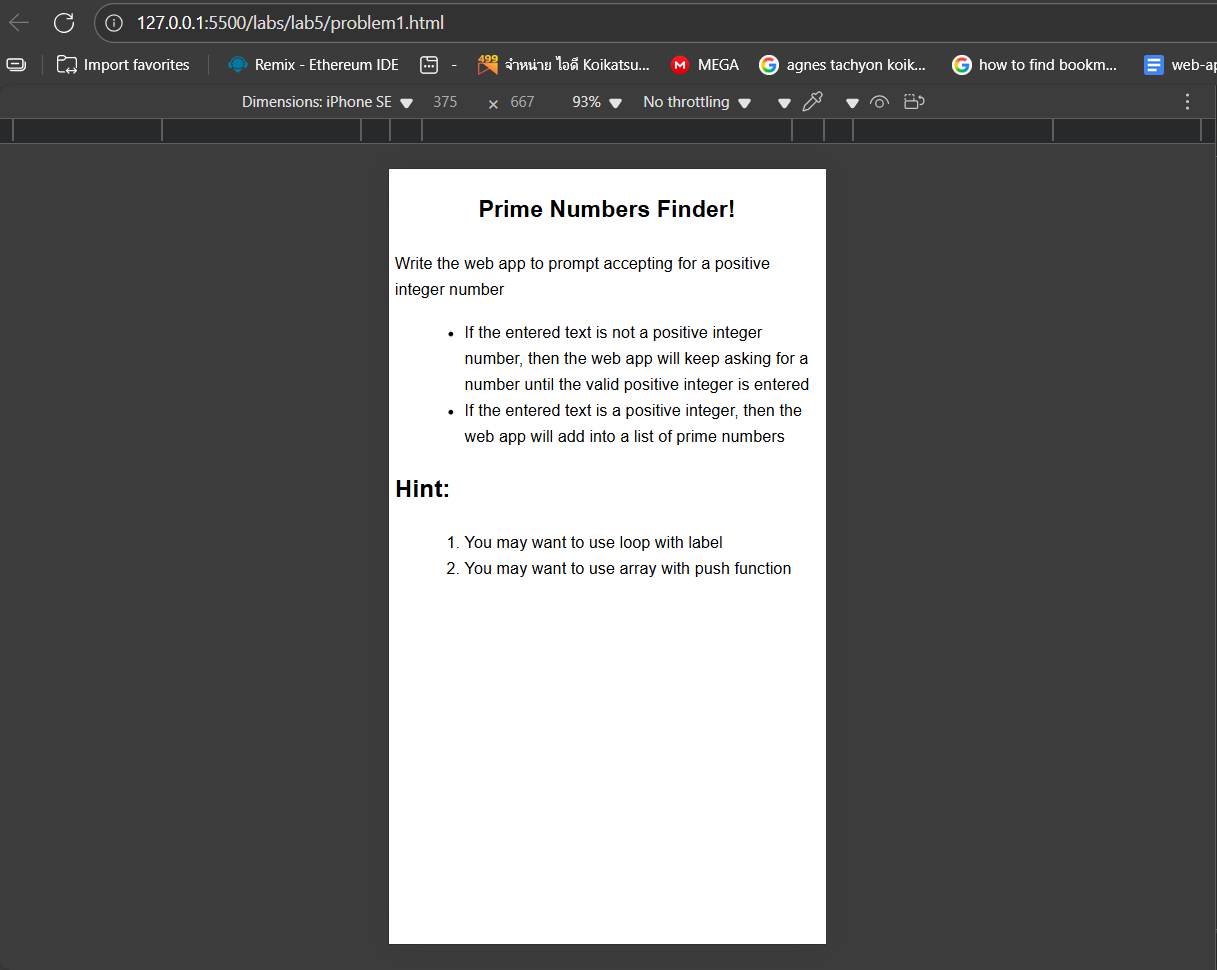
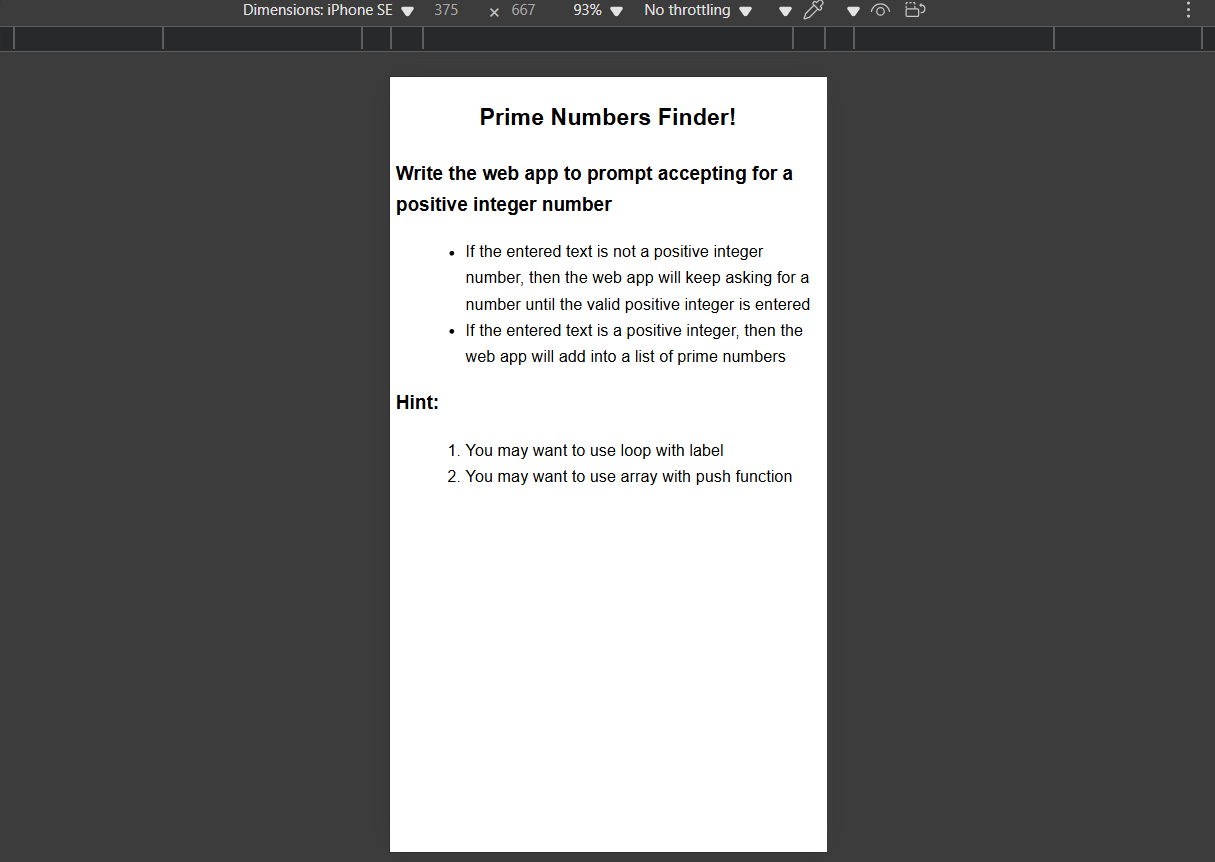
add

diff --git a/lab5/problem2.html b/lab5/problem2.html
@@ -1,0 +1,26 @@
+<!DOCTYPE html>
+<html lang="en">
+<head>
+  <meta charset="UTF-8">
+  <meta name="viewport" content="width=device-width, initial-scale=1.0">
+  <title>Problem 2 - Statistics Calculator</title>
+  <link rel="stylesheet" href="lib/style.css">
+  <script src="lib/problem2.js" defer></script>
+</head>
+<body style="display:none;">
+  <div class="container">
+    <h1>Statistics Calculator!</h1>
+    <h2>Write the web app to prompt accepting for positive integers until the user enters a negative integer</h2>
+    <ul>
+      <li>If the entered text is not a positive integer number, then the web app will keep asking for a number until the valid positive integer is entered</li>
+      <li>If the entered text is a negative integer, then the web app will show the statistics (average, min, max) of all entered positive integers</li>
+    </ul>
+
+    <h2>Note:</h2>
+    <ol>
+      <li>You need to implement functions to check whether an entered text is a positive integer or not and whether an entered text is a negative integer or not</li>
+      <li>You need to implement functions to compute average, min, and max of a list of integers</li>
+    </ol>
+  </div>
+</body>
+</html>

diff --git a/lab5/lib/problem2.js b/lab5/lib/problem2.js
@@ -1,0 +1,38 @@
+function readInput() {
+  let numbers = [];
+  while (true) {
+    let input = prompt("Enter an integer (a negative integer to quit):");
+    if (input === null) continue; 
+
+    let num = parseInt(input, 10);
+
+    if (isNaN(num)) {
+      alert("Invalid input. Please enter an integer.");
+      continue;
+    }
+
+    if (num < 0) {
+      break; 
+    } else {
+      numbers.push(num);
+    }
+  }
+  return numbers;
+}
+
+function displayStats(list) {
+  let avg = (list.length > 0) 
+              ? (list.reduce((a, b) => a + b, 0) / list.length).toFixed(2) 
+              : 0;
+  let min = (list.length > 0) ? Math.min(...list) : 0;
+  let max = (list.length > 0) ? Math.max(...list) : 0;
+
+  alert(`For the list ${list.join(",")}, the average is ${avg}, the minimum is ${min}, and the maximum is ${max}`);
+
+  document.body.style.display = "block";
+}
+
+window.onload = () => {
+  let list = readInput();
+  displayStats(list);
+};

diff --git a/lab5/problem1.html b/lab5/problem1.html
@@ -9,12 +9,12 @@
 </head>
 <body style="display: none;"> 
     <h1>Prime Numbers Finder!</h1>
-    <p>Write the web app to prompt accepting for a positive integer number</p>
+    <h3>Write the web app to prompt accepting for a positive integer number</h3>
     <ul>
         <li>If the entered text is not a positive integer number, then the web app will keep asking for a number until the valid positive integer is entered</li>
         <li>If the entered text is a positive integer, then the web app will add into a list of prime numbers</li>
     </ul>
-    <h2>Hint:</h2>
+    <h3>Hint:</h3>
     <ol>
         <li>You may want to use loop with label</li>
         <li>You may want to use array with push function</li>

diff --git a/lab5/lib/problem1.js b/lab5/lib/problem1.js
@@ -22,6 +22,9 @@ window.onload = function() {
     let n;
     while (true) {
         n = prompt("Enter a positive integer");
+        if (n === null) {  
+            return;        
+        }
         if (validateInput(n)) {
             n = parseInt(n, 10);
             break;
@@ -29,5 +32,5 @@ window.onload = function() {
     }
     const primes = findPrimes(n);
     alert(`For n = ${n} prime numbers are ${primes.join(",")}`);
-    document.body.style.display = "block"; 
+    document.body.style.display = "block";
 };
